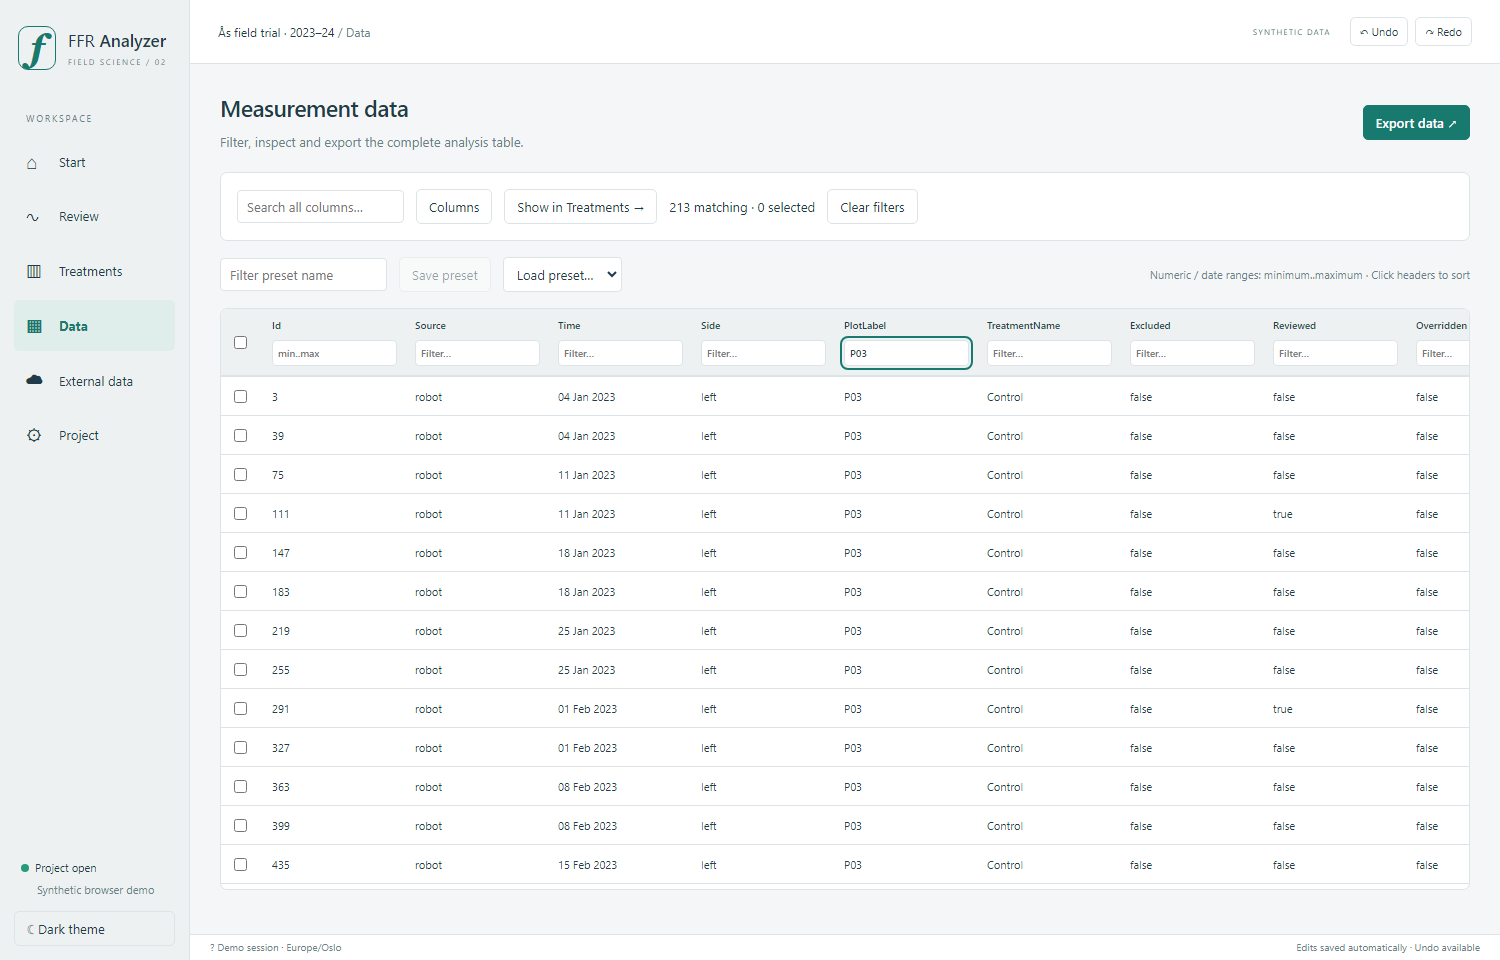
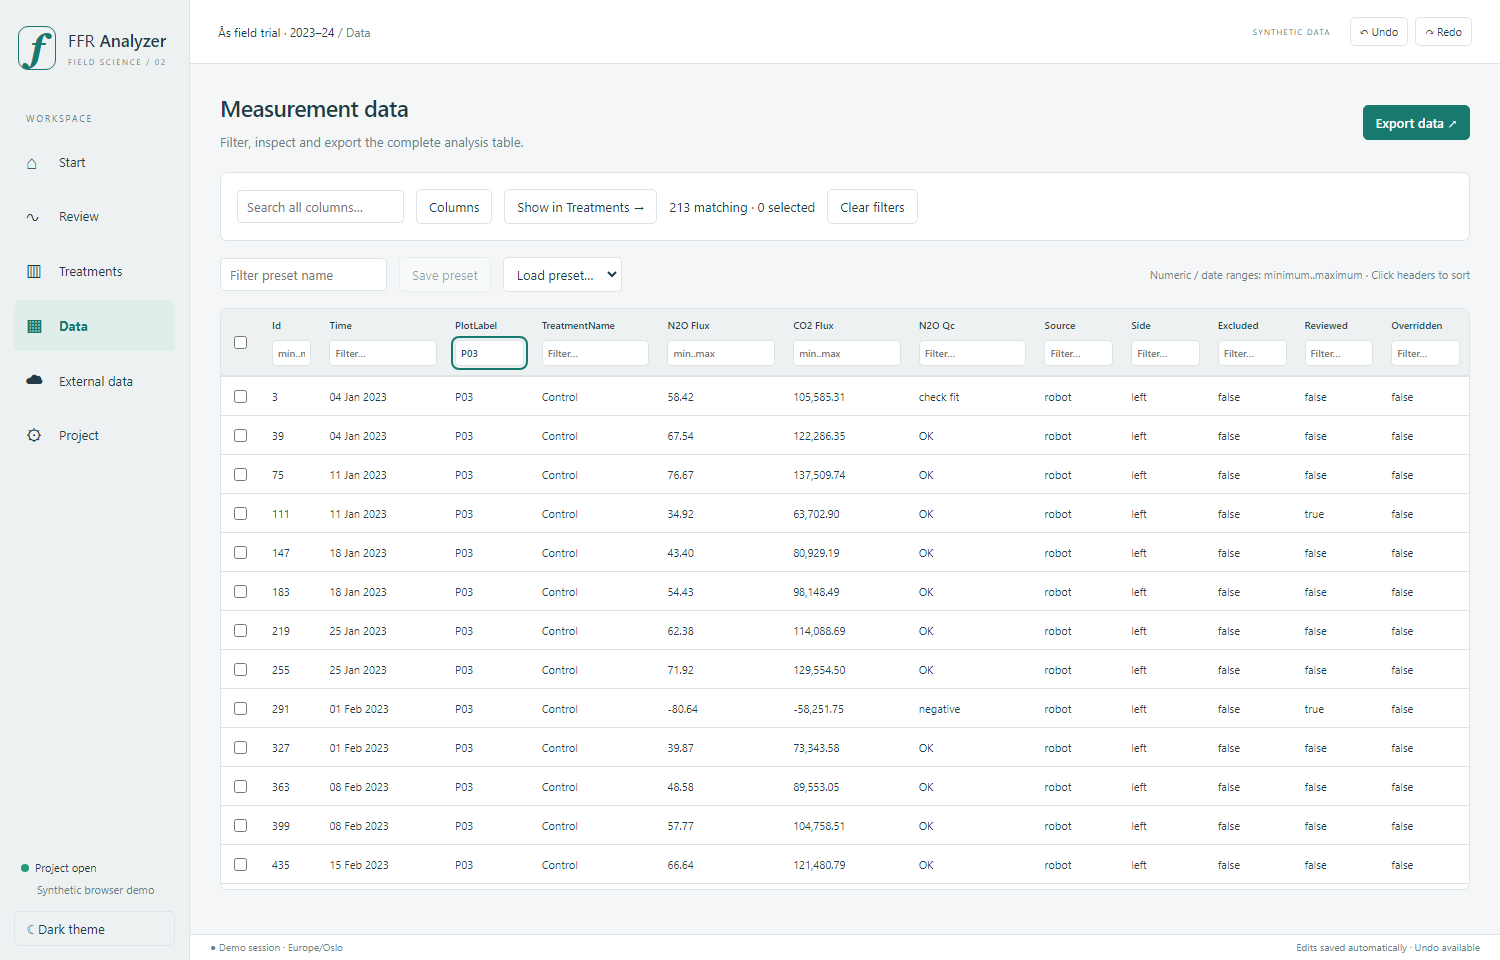
Polish chart contrast, table defaults and verified navigation

diff --git a/app/src/App.tsx b/app/src/App.tsx
@@ -35,7 +35,7 @@ const fmt = (n: unknown, d = 2) =>
     : String(n ?? "—");
 const date = (n: number) =>
   new Intl.DateTimeFormat("en-GB", {
-    timeZone: "Europe/Oslo",
+    timeZone: useStore.getState().timeZone,
     day: "2-digit",
     month: "short",
     year: "numeric",
@@ -1406,7 +1406,7 @@ function Treatments() {
                       key={p.plotId}
                       onClick={() => s.openFlux(p.points[0].fluxId)}
                     >
-                      Open {p.label} · #{p.points[0].fluxId} ?
+                      Open {p.label} · #{p.points[0].fluxId} ↗
                     </button>
                   ),
               )}
@@ -1480,35 +1480,53 @@ function Data() {
     );
   const columns = useMemo<ColumnDef<FluxRow>[]>(
     () =>
-      data.data?.columns.map((c) => ({
-        id: c.key,
-        accessorKey: c.key,
-        header: c.label,
-        filterFn: (row, id, value: string) => {
-          const cell = row.getValue<Cell>(id);
-          if (c.type === "number" || c.type === "time") {
-            const [a, b] = value.split("..");
-            const parse = (v: string) =>
-              c.type === "time" ? Date.parse(v) : Number(v);
-            return (
-              (!a || Number(cell) >= parse(a)) &&
-              (!b || Number(cell) <= parse(b))
-            );
-          }
-          return String(cell ?? "")
-            .toLowerCase()
-            .includes(value.toLowerCase());
-        },
-        cell: (info) =>
-          c.type === "time"
-            ? date(Number(info.getValue()))
-            : typeof info.getValue() === "number"
-              ? fmt(
-                  info.getValue(),
-                  c.key === "id" ? 0 : c.key.endsWith("slope") ? 6 : 2,
-                )
-              : String(info.getValue() ?? "—"),
-      })) ?? [],
+      data.data?.columns
+        .slice()
+        .sort((a, b) => {
+          const order = [
+            "id",
+            "time",
+            "plotLabel",
+            "treatmentName",
+            "N2O_flux",
+            "CO2_flux",
+            "N2O_qc",
+            "source",
+            "side",
+          ];
+          const rank = (key: string) =>
+            order.includes(key) ? order.indexOf(key) : 99;
+          return rank(a.key) - rank(b.key);
+        })
+        .map((c) => ({
+          id: c.key,
+          accessorKey: c.key,
+          header: c.label,
+          filterFn: (row, id, value: string) => {
+            const cell = row.getValue<Cell>(id);
+            if (c.type === "number" || c.type === "time") {
+              const [a, b] = value.split("..");
+              const parse = (v: string) =>
+                c.type === "time" ? Date.parse(v) : Number(v);
+              return (
+                (!a || Number(cell) >= parse(a)) &&
+                (!b || Number(cell) <= parse(b))
+              );
+            }
+            return String(cell ?? "")
+              .toLowerCase()
+              .includes(value.toLowerCase());
+          },
+          cell: (info) =>
+            c.type === "time"
+              ? date(Number(info.getValue()))
+              : typeof info.getValue() === "number"
+                ? fmt(
+                    info.getValue(),
+                    c.key === "id" ? 0 : c.key.endsWith("slope") ? 6 : 2,
+                  )
+                : String(info.getValue() ?? "—"),
+        })) ?? [],
     [data.data],
   );
   const defaultVisible = useMemo(() => {
@@ -1705,7 +1723,24 @@ function Data() {
                   />
                 </th>
                 {hg.headers.map((h) => (
-                  <th key={h.id}>
+                  <th
+                    key={h.id}
+                    style={{
+                      minWidth:
+                        h.id === "id"
+                          ? 55
+                          : [
+                                "source",
+                                "side",
+                                "reviewed",
+                                "excluded",
+                                "overridden",
+                                "plotLabel",
+                              ].includes(h.id)
+                            ? 85
+                            : 125,
+                    }}
+                  >
                     <button onClick={h.column.getToggleSortingHandler()}>
                       {flexRender(h.column.columnDef.header, h.getContext())}
                       {h.column.getIsSorted() === "asc"
@@ -2436,6 +2471,10 @@ export default function App() {
     queryFn: () => api.projectInfo(),
   });
   useEffect(() => {
+    if (info.data?.timeZone)
+      useStore.getState().set({ timeZone: info.data.timeZone });
+  }, [info.data?.timeZone]);
+  useEffect(() => {
     toastFn = setToast;
   }, []);
   useEffect(() => {
@@ -2564,7 +2603,7 @@ export default function App() {
         </div>
         <footer className="statusbar">
           <span>
-            ? {mockMode ? "Demo session" : "Ready"} ·{" "}
+            ● {mockMode ? "Demo session" : "Ready"} ·{" "}
             {info.data?.timeZone ?? "Europe/Oslo"}
           </span>
           <span>

diff --git a/app/tests/smoke.test.ts b/app/tests/smoke.test.ts
@@ -58,19 +58,27 @@ test("complete synthetic workspace in both themes", async ({ page }) => {
   await page.getByLabel("Toggle theme").click();
   await shot("treatments-dark");
   await page.getByLabel("Toggle theme").click();
-  await page.getByRole("img",{name:"Individual fluxes over time",exact:true}).scrollIntoViewIfNeeded();
+  await page
+    .getByRole("img", { name: "Individual fluxes over time", exact: true })
+    .scrollIntoViewIfNeeded();
   await shot("treatments-detail-light");
-  await page.getByLabel("Toggle theme").click();await shot("treatments-detail-dark");await page.getByLabel("Toggle theme").click();
-  const point=await page.evaluate(async()=>{
-    const modulePath="/src/ui/Chart.tsx";
-    const {echarts}=await import(modulePath);
-    const element=document.querySelector('[aria-label="Individual fluxes over time"]') as HTMLElement;
-    const c=echarts.getInstanceByDom(element);
-    const option=c.getOption(),first=option.series[0].data[0];
-    const [x,y]=c.convertToPixel({seriesIndex:0},first);
-    const box=element.getBoundingClientRect();return {x:box.left+x,y:box.top+y};
+  await page.getByLabel("Toggle theme").click();
+  await shot("treatments-detail-dark");
+  await page.getByLabel("Toggle theme").click();
+  const point = await page.evaluate(async () => {
+    const modulePath = "/src/ui/Chart.tsx";
+    const { echarts } = await import(modulePath);
+    const element = document.querySelector(
+      '[aria-label="Individual fluxes over time"]',
+    ) as HTMLElement;
+    const c = echarts.getInstanceByDom(element);
+    const option = c.getOption(),
+      first = option.series[0].data[0];
+    const [x, y] = c.convertToPixel({ seriesIndex: 0 }, first);
+    const box = element.getBoundingClientRect();
+    return { x: box.left + x, y: box.top + y };
   });
-  await page.mouse.click(point.x,point.y);
+  await page.mouse.click(point.x, point.y);
   await expect(
     page.getByRole("button", { name: "← Back to Treatments" }),
   ).toBeVisible();

diff --git a/app/src/store.ts b/app/src/store.ts
@@ -8,6 +8,7 @@ export type Screen =
   | "Project";
 interface State {
   screen: Screen;
+  timeZone: string;
   selected: number;
   back: Screen | null;
   theme: "light" | "dark";
@@ -29,6 +30,7 @@ interface State {
 }
 export const useStore = create<State>((set, get) => ({
   screen: "Start",
+  timeZone: "Europe/Oslo",
   selected: 1,
   back: null,
   theme:

diff --git a/app/src/style.css b/app/src/style.css
@@ -969,3 +969,11 @@ td {
     grid-template-columns: 1fr;
   }
 }
+
+.table-scroll th input:not([type="checkbox"]) {
+  width: 100%;
+  min-width: 0;
+}
+.table-scroll th button {
+  font-size: 10px;
+}

diff --git a/app/src-tauri/build.rs b/app/src-tauri/build.rs
@@ -1,1 +1,3 @@
-fn main() { tauri_build::build() }
+fn main() {
+    tauri_build::build()
+}

diff --git a/app/README.md b/app/README.md
@@ -69,3 +69,20 @@ The mock exportXlsx downloads CSV with the selected grouping; daily mode current
 Manual-import mapping currently uses the legacy plot/N2O/CO2 mapping and 12-hour offset.
 The field map shows synthetic plot positions, not a geospatial polygon editor.
 Native persistence, real imports, Frost networking and XLSX belong to the Rust integration.
+## Verification (Windows, 2026-11-16)
+
+- Strict TypeScript / Vite production build: passed.
+- ESLint: passed.
+- Vitest: 4 passed; regression/p-value/standard errors, ideal-gas conversion,
+  daily averaging/integration/population SD/source filtering, previews and undo/redo.
+- Playwright: passed; all six screens, keyboard navigation, input and pointer window
+  adjustment, exclusion/undo, an actual ECharts flux-point click, Back, a filtered Data
+  row and preserved filter state. Fourteen synthetic screenshots cover both themes,
+  including the lower Treatments panels; all were visually inspected.
+- Rust 1.85 cargo check: passed.
+- Debug Tauri build: passed; produced target/debug/ffr-analyzer.exe and
+  target/debug/bundle/nsis/FFR Analyzer_0.1.0_x64-setup.exe (2.70 MiB).
+- Native executable: opened and its actual WebView2 Start screen was verified over CDP.
+  The installer was built but was not installed.
+- Production Vite bundle has a size advisory (~936 kB before gzip), primarily ECharts.
+  Charts use explicit tree-shaken imports.
